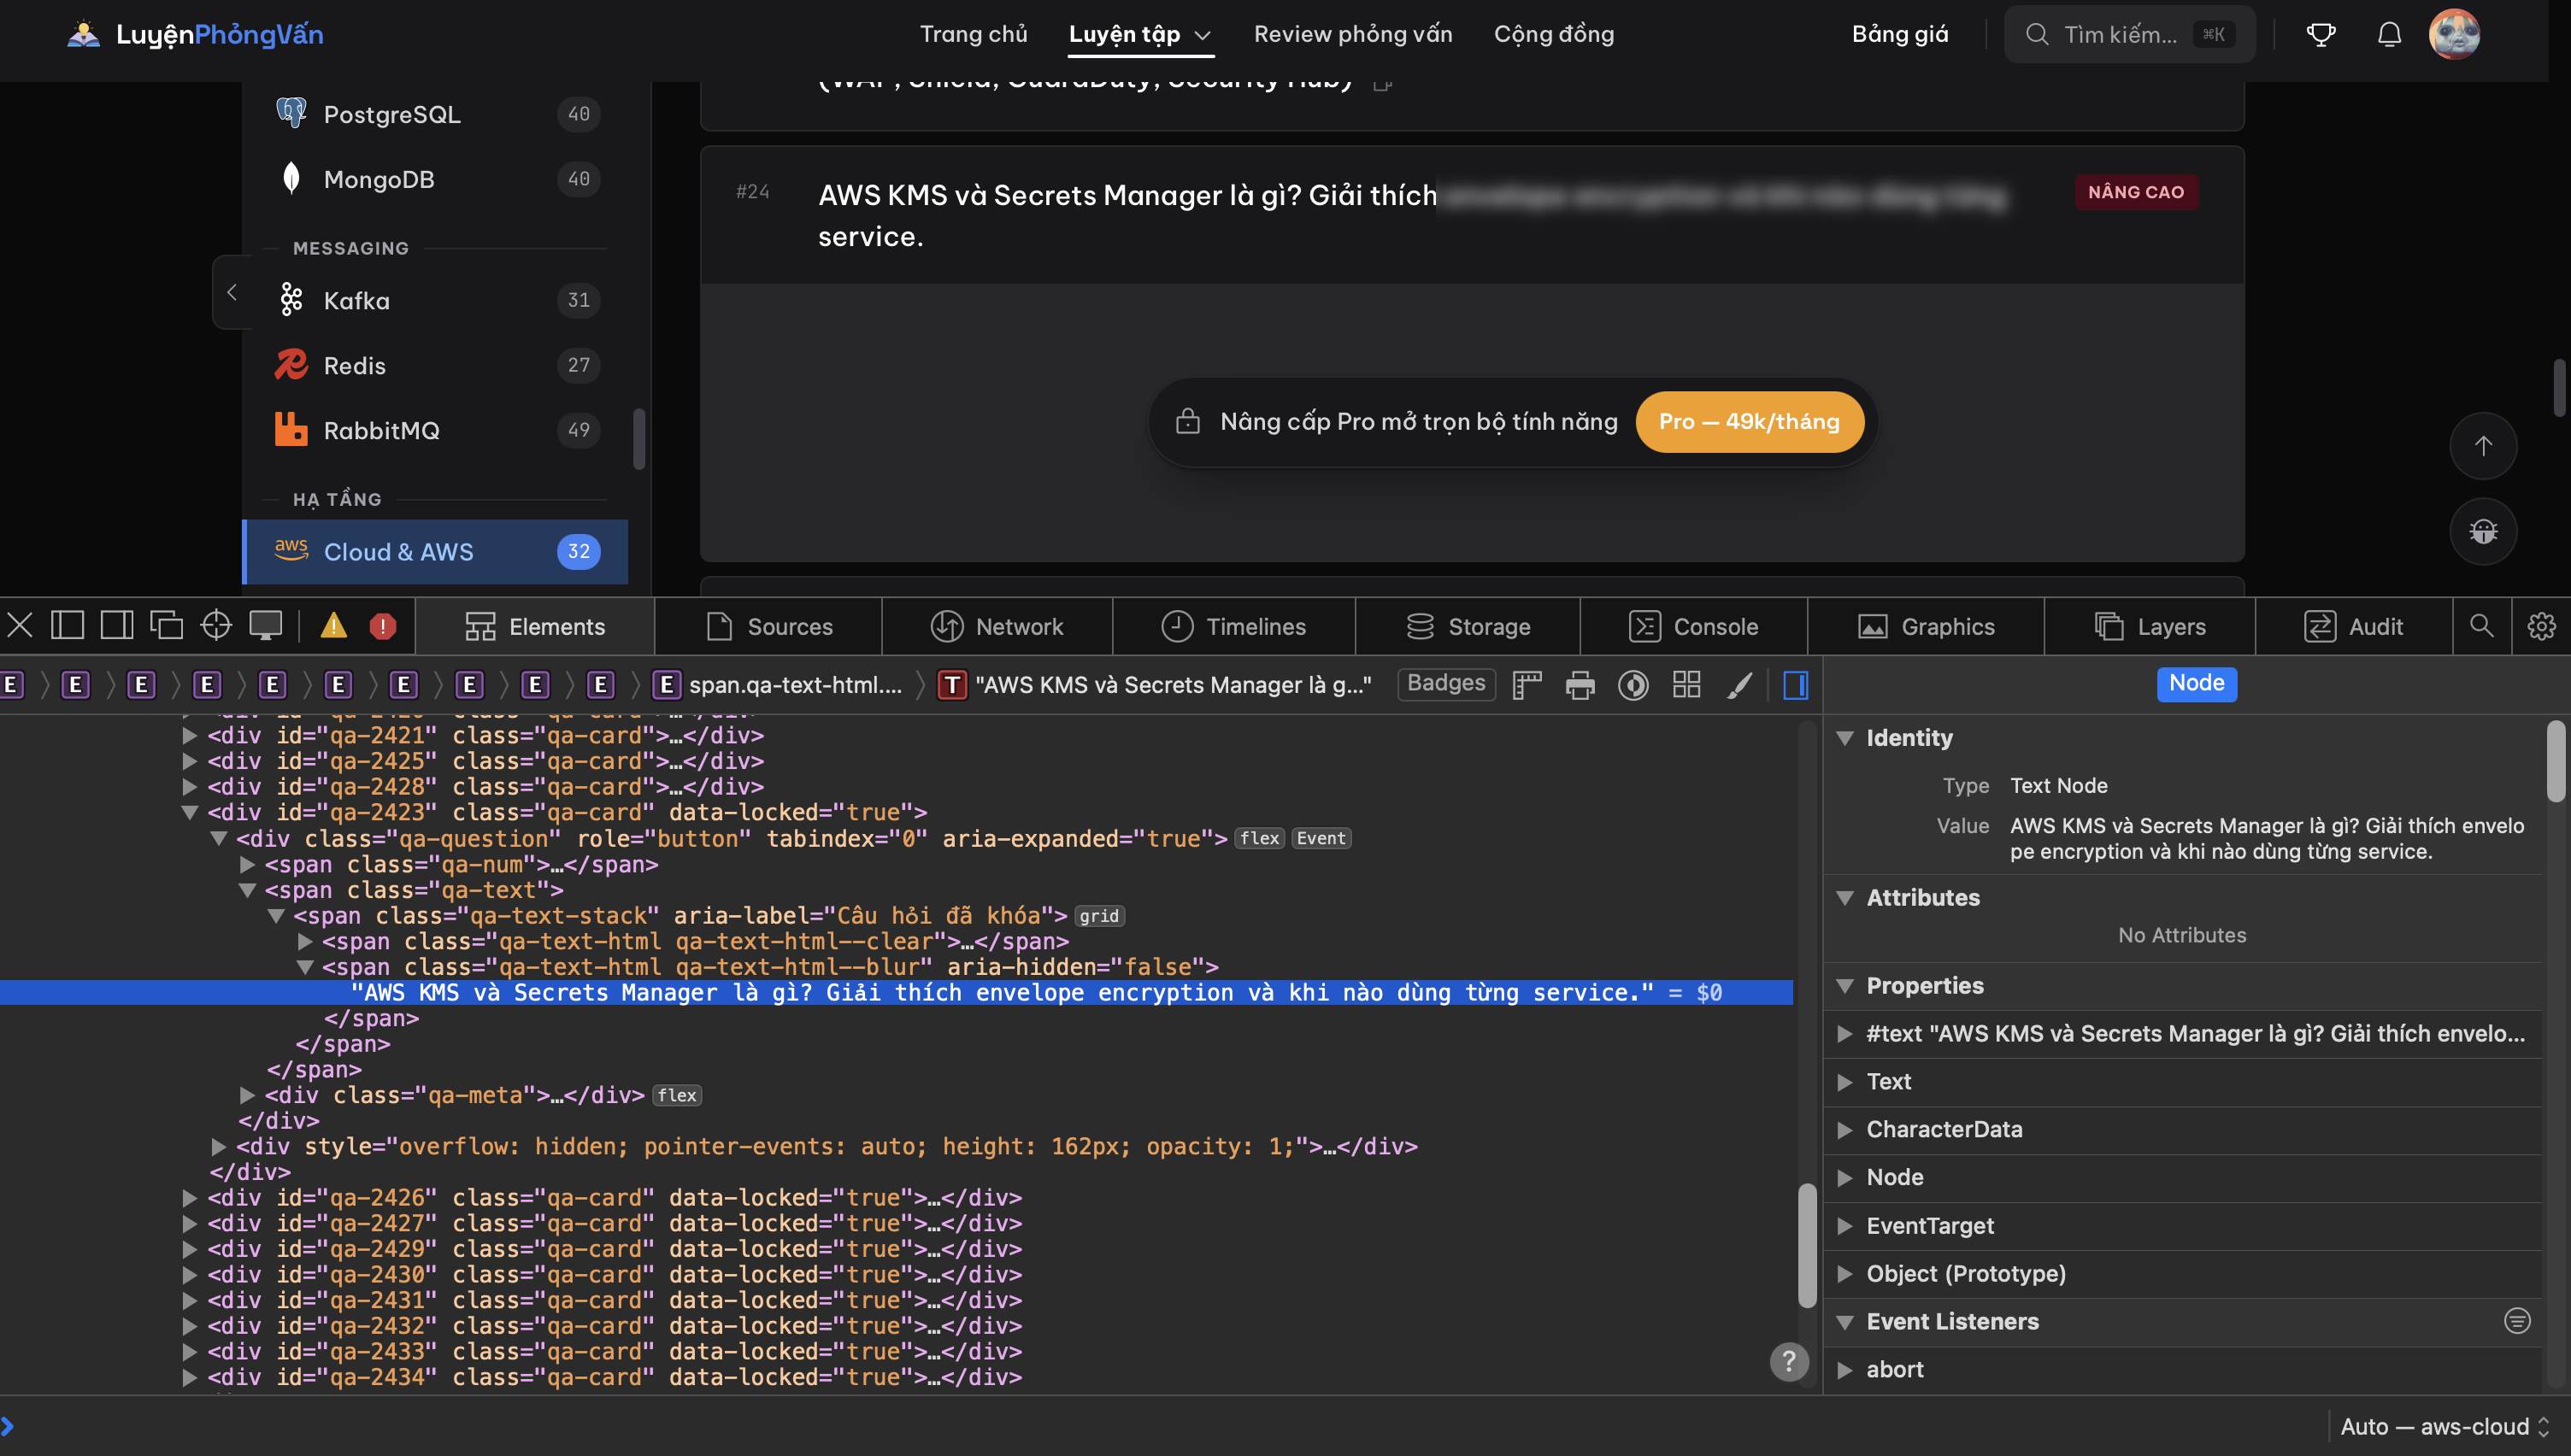
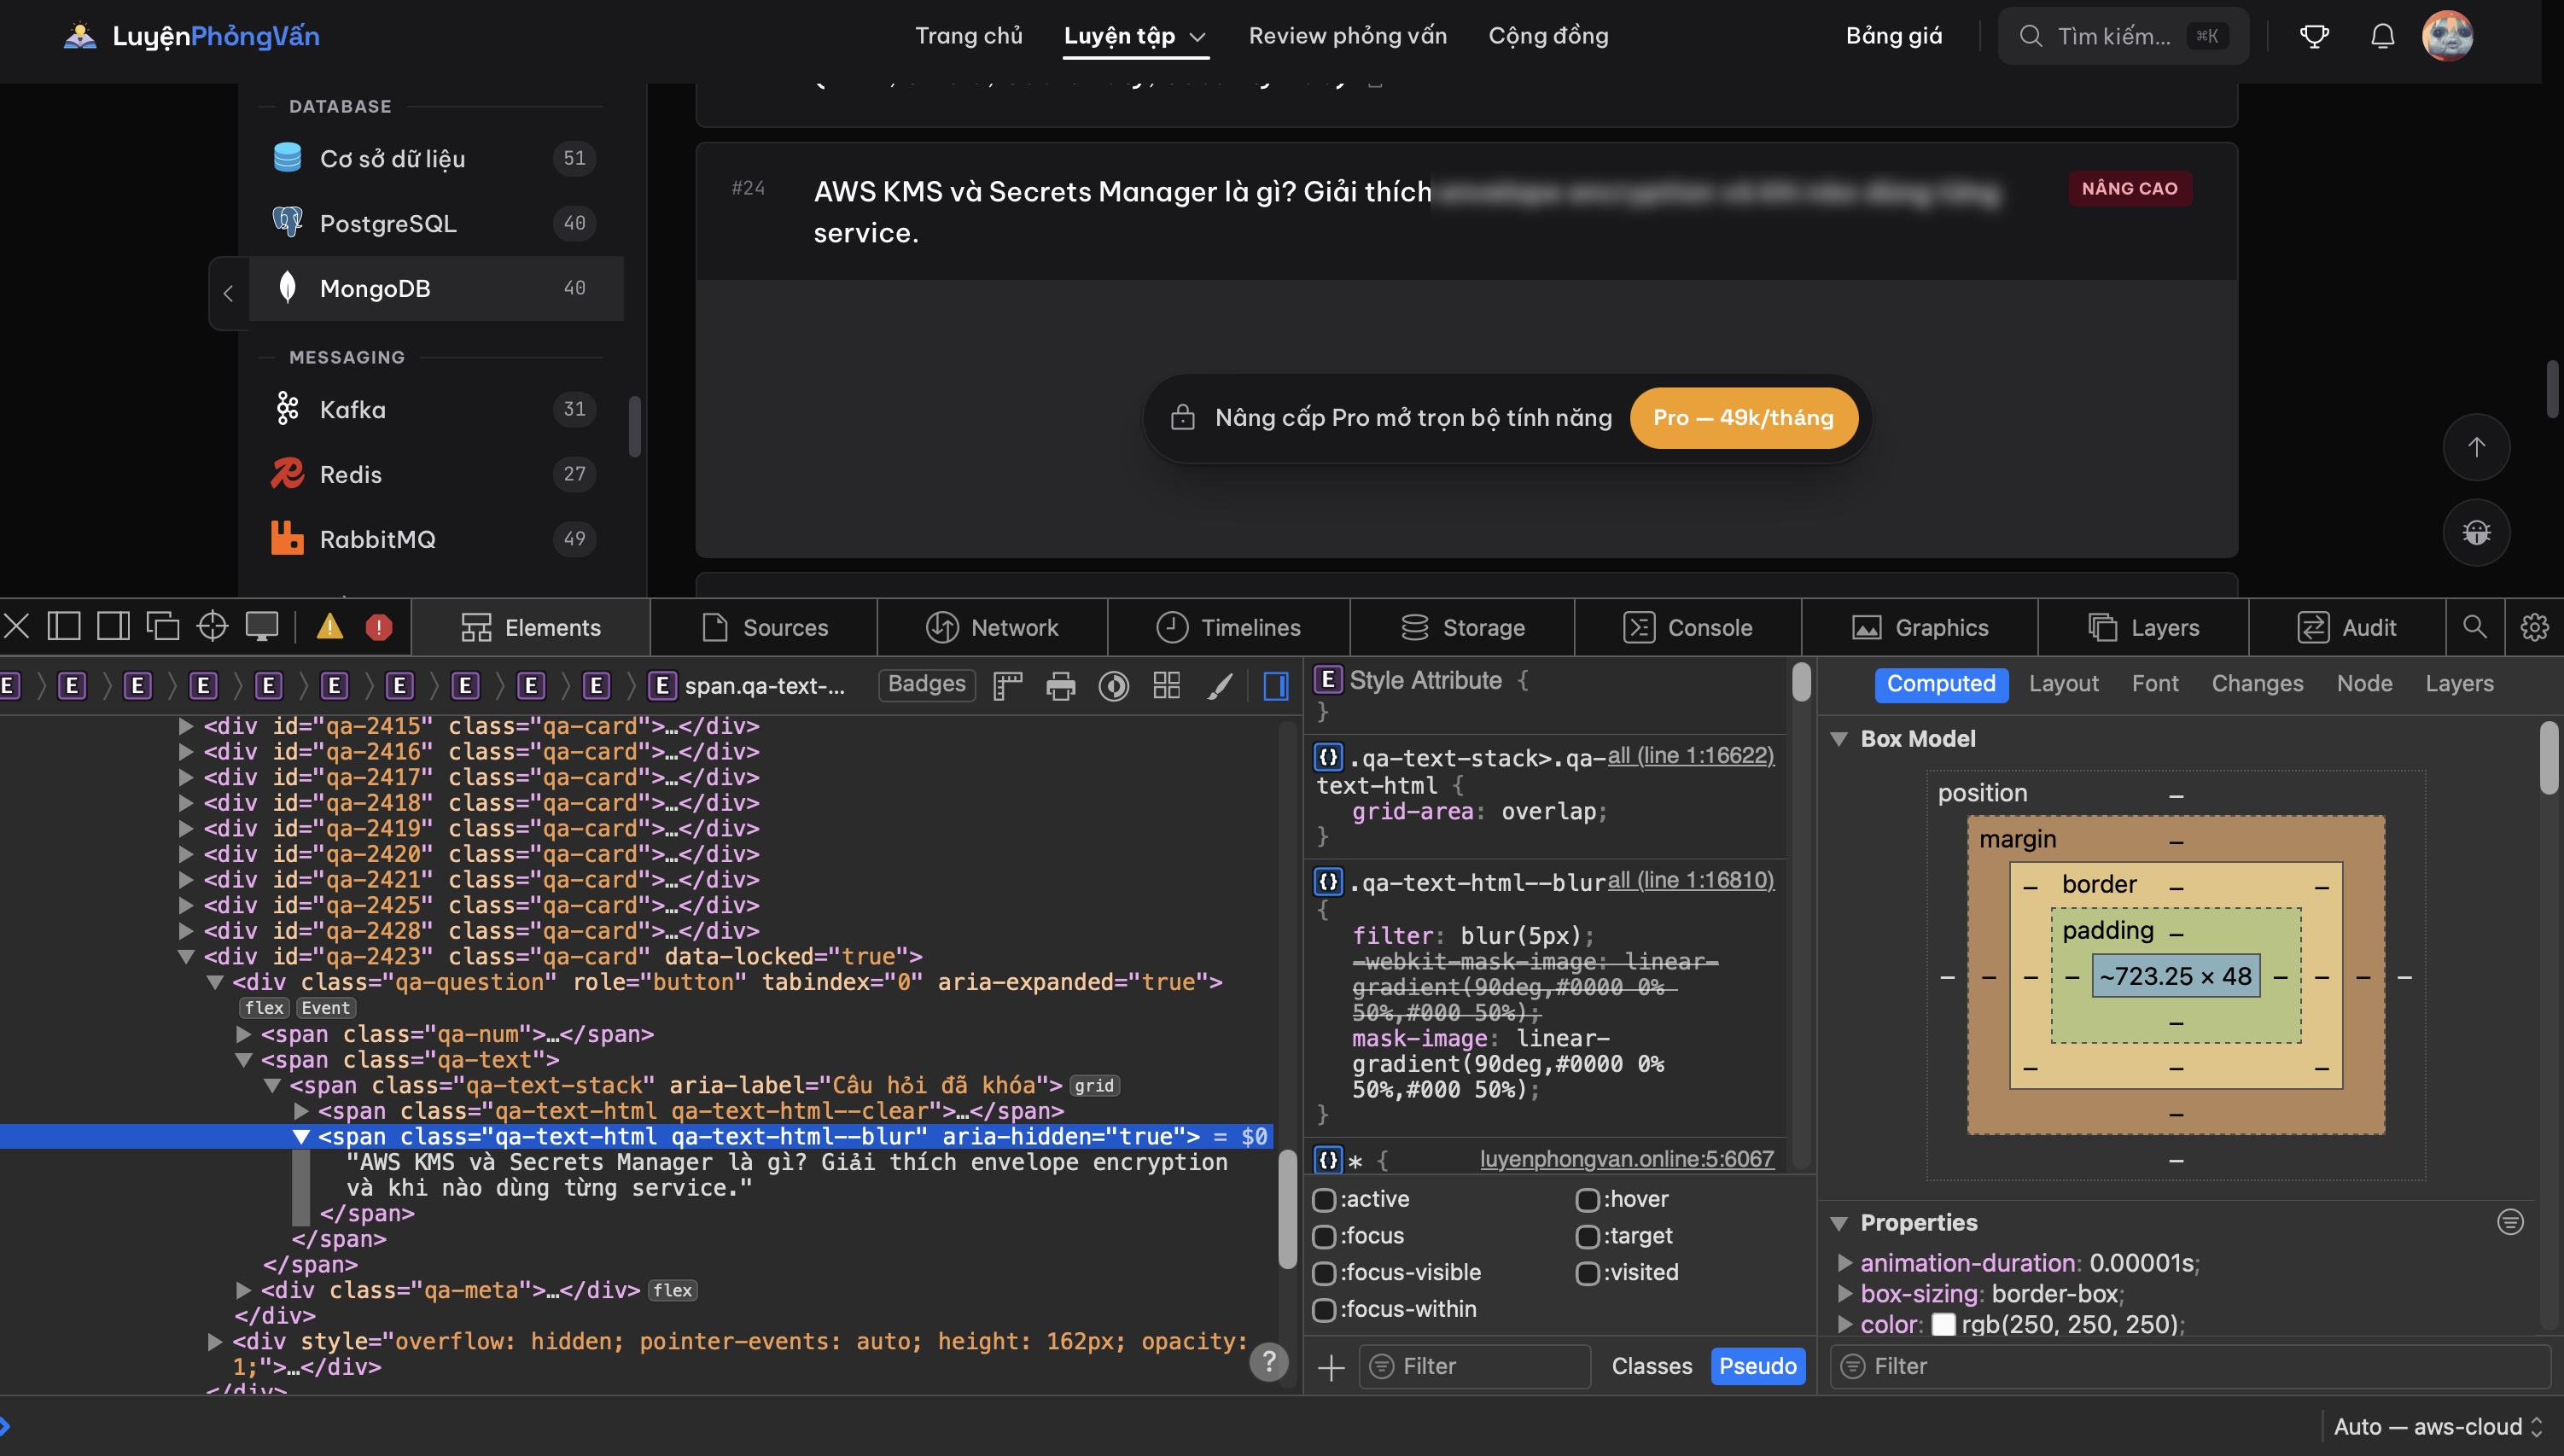
fix post

diff --git a/public/post/2026/07/16/trang-luyen-phong-van-do-thang-vibe-coder-ngu-vai/index.html b/public/post/2026/07/16/trang-luyen-phong-van-do-thang-vibe-coder-ngu-vai/index.html
@@ -1,0 +1,185 @@
+<!DOCTYPE html>
+<html lang="en-us">
+  <head><script src="/livereload.js?mindelay=10&amp;v=2&amp;port=1313&amp;path=livereload" data-no-instant defer></script>
+
+    <link rel="apple-touch-icon" sizes="180x180" href="/images/apple-touch-icon.png">
+    <link rel="icon" type="image/png" sizes="32x32" href="/images/favicon-32x32.png">
+    <link rel="icon" type="image/png" sizes="16x16" href="/images/favicon-16x16.png">
+    <link rel="manifest" href="/images/site.webmanifest">
+
+    <meta charset="utf-8">
+    <meta name="viewport" content="width=device-width, initial-scale=1">
+    <meta name="description" content="A simple, minimal blog for those who love text.">
+    <title>Trang Luyen Phong Van Do Thang Vibe Coder Ngu Vai | AboutMe</title>
+    <link rel="stylesheet" href="/css/style.css" />
+    <link rel="stylesheet" href="/css/fonts.css" />
+    <link rel="stylesheet" href="http://localhost:1313/css/theme-override.css">
+    
+  </head>
+
+  <body>
+    <header>
+      <nav>
+        <ul>
+          
+          
+          <li class="pull-left ">
+            <a href="http://localhost:1313/">~/aboutme</a>
+          </li>
+          
+          
+          <li class="pull-left ">
+            <a href="/blog/">~/blog</a>
+          </li>
+          
+          
+          <li class="pull-left ">
+            <a href="/categories/">~/categories</a>
+          </li>
+          
+          
+          <li class="pull-left ">
+            <a href="/tags/">~/tags</a>
+          </li>
+          
+
+          
+
+        </ul>
+      </nav>
+    </header>
+
+
+<div class="article-meta">
+    <h1><span class="title">Trang Luyen Phong Van Do Thang Vibe Coder Ngu Vai</span></h1>
+    <h2 class="author">clgp</h2>
+    <h2 class="date">2026/07/16</h2>
+    <p class="terms">
+        
+        
+        Categories: <a href="/categories/nil"></a> 
+        
+        
+        
+        Tags: <a href="/tags/nil"></a> 
+        
+        
+    </p>
+</div>
+
+
+
+<div class="content-wrapper">
+    <main>
+        <h1><a href="https://luyenphongvan.online/">https://luyenphongvan.online/</a></h1>
+<h1 id="một-website-kinh-doanh-quá-đần-vibe-code-thu-49k-một-tháng-mà-lộ-hết-trong-source-chả-hiểu-blur-làm-gì-xong-thu-ngta-49k">một website kinh doanh quá đần, vibe code thu 49k một tháng mà lộ hết trong source, chả hiểu blur làm gì xong thu ngta 49k</h1>
+<h1 id="leak-demo">LEAK DEMO</h1>
+<img src = "/images/web_vibe_code.png">
+## Cloud-AWS (blur từ 24-32)
+<p>AWS Well-Architected Framework gồm những trụ cột nào? Giải thích từng pillar và best practices chính.
+Làm thế nào để bảo mật một ứng dụng web trên AWS từ đầu đến cuối? (WAF, Shield, GuardDuty, Security Hub)
+Multi-AZ vs Multi-Region là gì? Khi nào cần multi-region và đánh đổi về độ phức tạp và chi phí?
+Giải thích các Disaster Recovery strategies trên AWS: Backup &amp; Restore, Pilot Light, Warm Standby, Multi-Site Active-Active.
+Serverless architecture patterns là gì? Giải thích các pattern phổ biến: API + Lambda, event-driven, saga pattern.
+Các chiến lược tối ưu chi phí AWS là gì? Làm thế nào để giảm AWS bill 30-50% mà không ảnh hưởng performance?
+Auto-scaling strategies trên AWS là gì? Giải thích Target Tracking, Step Scaling, Scheduled Scaling và Predictive Scaling.
+Blue/Green deployment và Canary deployment trên AWS là gì? Giải thích cách implement từng strategy.</p>
+<h2 id="docker--blur-từ-37-44">Docker ( blur từ 37-44)</h2>
+<p>SecurityContext nên cấu hình gì cho Pod/container?
+imagePullPolicy và registry strategy cần hiểu gì?
+Helm và Kustomize khác nhau thế nào?
+Debug Pod lỗi thường dùng lệnh nào?
+NetworkPolicy trong Kubernetes dùng để làm gì?
+CrashLoopBackOff, ImagePullBackOff và Pending thường debug thế nào?
+Docker Compose và Kubernetes nên dùng ở đâu?</p>
+<h2 id="java-script-blur-từ-89-117">java script (blur từ 89-117)</h2>
+<p>Viết hàm throttle từ đầu?
+Implement deep clone object (không dùng structuredClone)?
+Flatten nested array (không dùng Array.flat)?
+Implement Promise.all từ đầu?
+Implement EventEmitter class đơn giản?
+Viết hook useLocalStorage trong React?
+Implement infinite scroll hook?
+Viết hàm curry đa năng?
+Implement simple React context store (mini Redux)?
+Viết hàm retry với exponential backoff?
+Implement simple virtual list (render chỉ visible items)?
+Viết function so sánh 2 objects deep equal?
+Implement memoize function cho expensive computations?
+Implement simple pub/sub system cho micro-frontends?
+Viết middleware pipeline pattern (giống Express)?
+FizzBuzz coding challenge. Viết code, optimize, handle edge case.
+Implement simple LRU cache. Explain HashMap + LinkedList data structure.
+Array method efficiency. map vs forEach vs reduce performance?
+Memory leak trong JavaScript là gì và các nguyên nhân phổ biến?
+Object.groupBy() và Map.groupBy() (ES2024) là gì? Khi nào chọn cái nào?
+Promise.withResolvers() (ES2024) giải quyết vấn đề gì so với new Promise()?
+Array.fromAsync() (ES2024) khác Array.from() và Promise.all() như thế nào?
+Các Set method mới trong ES2025 (union, intersection, difference, isSubsetOf&hellip;) là gì? Có gotcha gì với argument?
+structuredClone() là gì? Nó khác JSON.parse(JSON.stringify()) ở những điểm nào?
+WeakRef và FinalizationRegistry là gì? Tại sao tài liệu khuyên hạn chế dùng?
+Iterator helpers (map, filter, take, drop) trong ES2025 là gì? Ưu điểm lazy so với array method?
+Array.prototype.at(), findLast() và findLastIndex() làm được gì mà cách cũ khó hơn?
+RegExp flag /v (unicodeSets) trong ES2024 là gì? Hơn flag /u ở điểm nào?
+Top-level await trong ES modules là gì? Nó ảnh hưởng thế nào đến thứ tự load module?</p>
+
+        <a href="/"> >> Home</a>
+    </main>
+
+    
+<div class="comments-section">
+  <h2>Comments</h2>
+  <script src="https://giscus.app/client.js"
+    data-repo="clgp-aint-cool/clgp-aint-cool.github.io"
+    data-repo-id="R_kgDOQVBefA"
+    data-category="General"
+    data-category-id="DIC_kwDOQVBefM4C2YFQ"
+    data-mapping="pathname"
+    data-strict="0"
+    data-reactions-enabled="1"
+    data-emit-metadata="0"
+    data-input-position="top"
+    data-theme="preferred_color_scheme"
+    data-lang="en"
+    data-loading="lazy"
+    crossorigin="anonymous"
+    async>
+  </script>
+</div>
+
+
+</div>
+<footer>
+  
+  
+  <script>
+    (function () {
+      function center_el(tagName) {
+        var tags = document.getElementsByTagName(tagName),
+          i,
+          tag;
+        for (i = 0; i < tags.length; i++) {
+          tag = tags[i];
+          var parent = tag.parentElement;
+          
+          if (parent.childNodes.length === 1) {
+            
+            if (parent.nodeName === "A") {
+              parent = parent.parentElement;
+              if (parent.childNodes.length != 1) continue;
+            }
+            if (parent.nodeName === "P") parent.style.textAlign = "center";
+          }
+        }
+      }
+      var tagNames = ["img", "embed", "object"];
+      for (var i = 0; i < tagNames.length; i++) {
+        center_el(tagNames[i]);
+      }
+    })();
+  </script>
+
+  
+  <hr />
+  Open-Source | <a href="https://github.com/clgp-aint-cool">GitHub</a> 
+</footer>

diff --git a/public/blog/index.html b/public/blog/index.html
@@ -56,6 +56,11 @@
 <ul>
   
   <li>
+    <span class="date">2026-07-16</span>
+    <a href="http://localhost:1313/post/2026/07/16/trang-luyen-phong-van-do-thang-vibe-coder-ngu-vai/">Trang Luyen Phong Van Do Thang Vibe Coder Ngu Vai</a>
+  </li>
+  
+  <li>
     <span class="date">2026-07-03</span>
     <a href="http://localhost:1313/post/2026/07/03/my-first-tech-job/">My first tech job</a>
   </li>

diff --git a/public/index.html b/public/index.html
@@ -68,6 +68,11 @@ Cybersecurity | Backend Developer (partime) | DevOps</p>
      
      
      <li>
+       <span class="date">2026/07/16</span>
+       <a href="/post/2026/07/16/trang-luyen-phong-van-do-thang-vibe-coder-ngu-vai/">Trang Luyen Phong Van Do Thang Vibe Coder Ngu Vai</a>
+     </li>
+     
+     <li>
        <span class="date">2026/07/03</span>
        <a href="/post/2026/07/03/my-first-tech-job/">My first tech job</a>
      </li>

diff --git a/public/post/index.html b/public/post/index.html
@@ -63,6 +63,11 @@
      
      
      <li>
+       <span class="date">2026/07/16</span>
+       <a href="/post/2026/07/16/trang-luyen-phong-van-do-thang-vibe-coder-ngu-vai/">Trang Luyen Phong Van Do Thang Vibe Coder Ngu Vai</a>
+     </li>
+     
+     <li>
        <span class="date">2026/07/03</span>
        <a href="/post/2026/07/03/my-first-tech-job/">My first tech job</a>
      </li>

diff --git a/content/post/trang-luyen-phong-van-do-thang-vibe-coder-ngu-vai.md b/content/post/trang-luyen-phong-van-do-thang-vibe-coder-ngu-vai.md
@@ -12,7 +12,9 @@ tags:
 
 # một website kinh doanh quá đần, vibe code thu 49k một tháng mà lộ hết trong source, chả hiểu blur làm gì xong thu ngta 49k
 
-#LEAK DEMO
+# LEAK DEMO
+
+<img src = "/images/web_vibe_code.png">
 
 ## Cloud-AWS (blur từ 24-32)
 